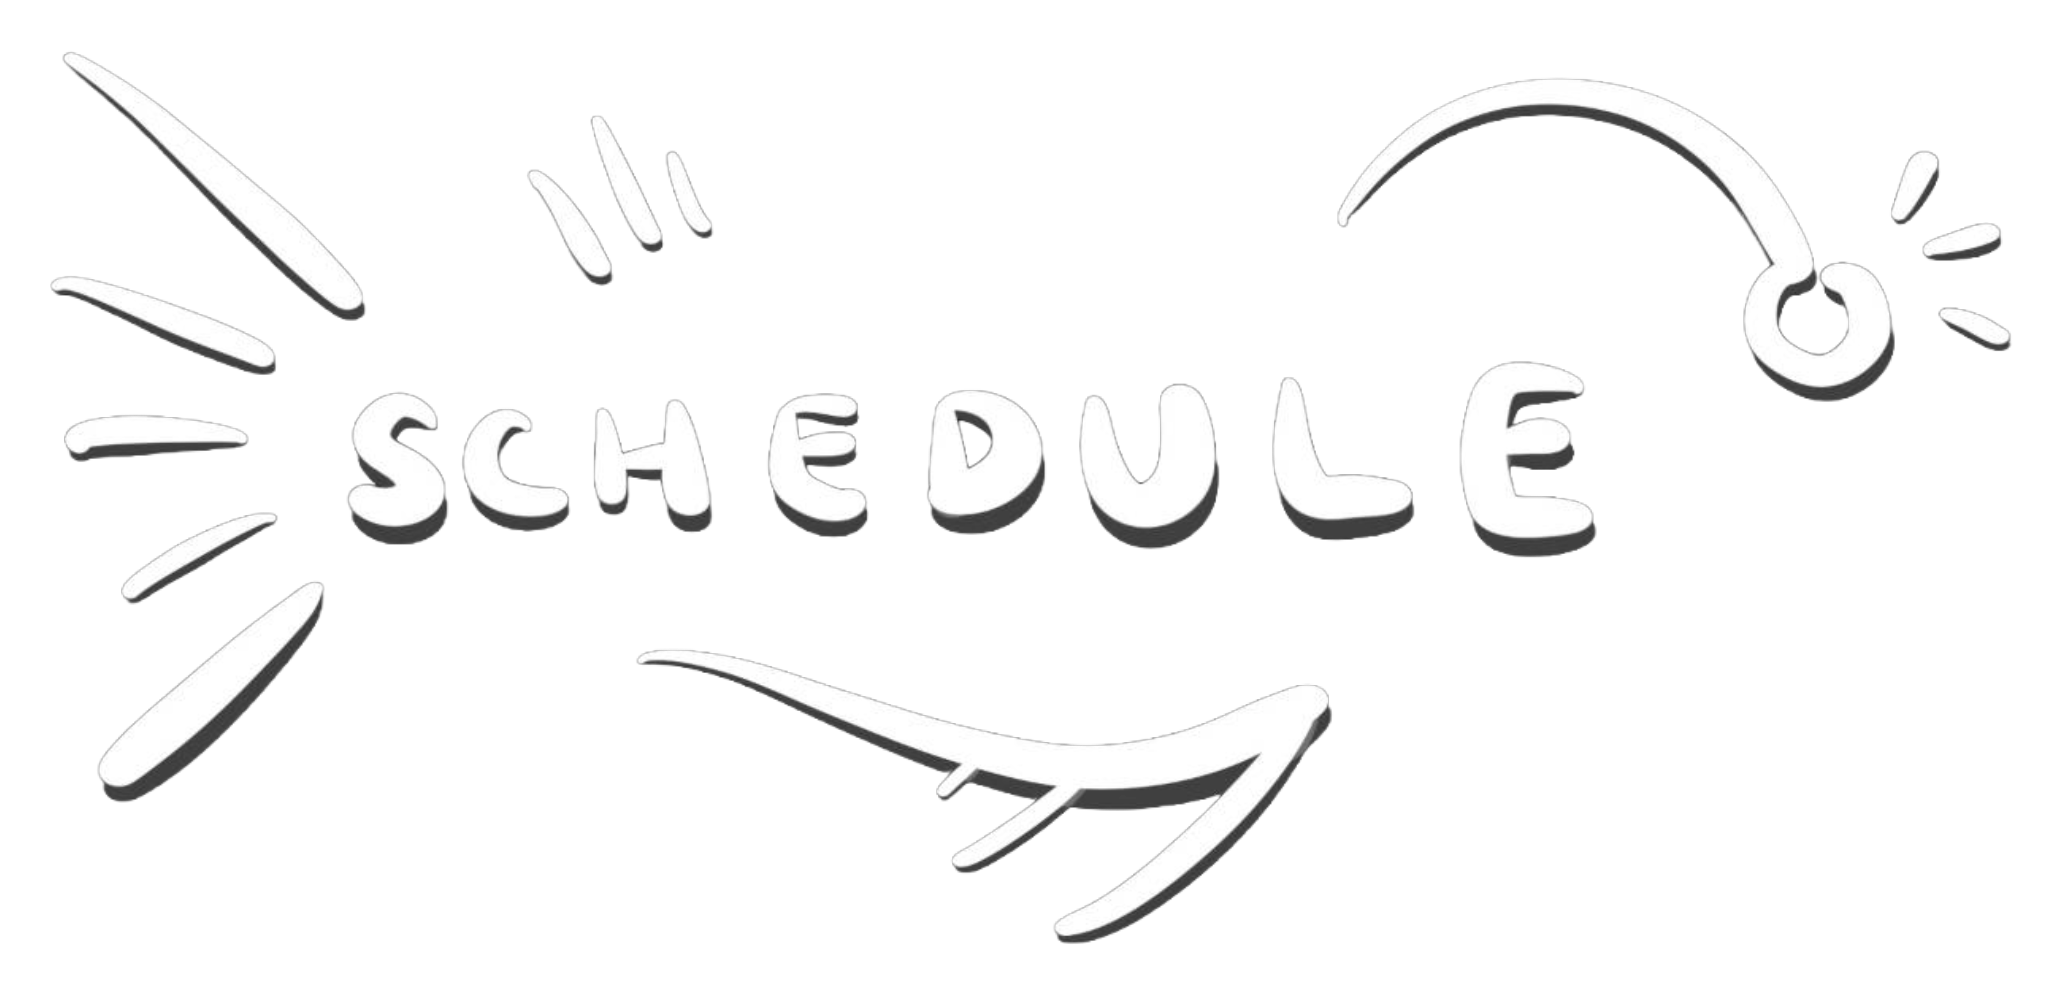
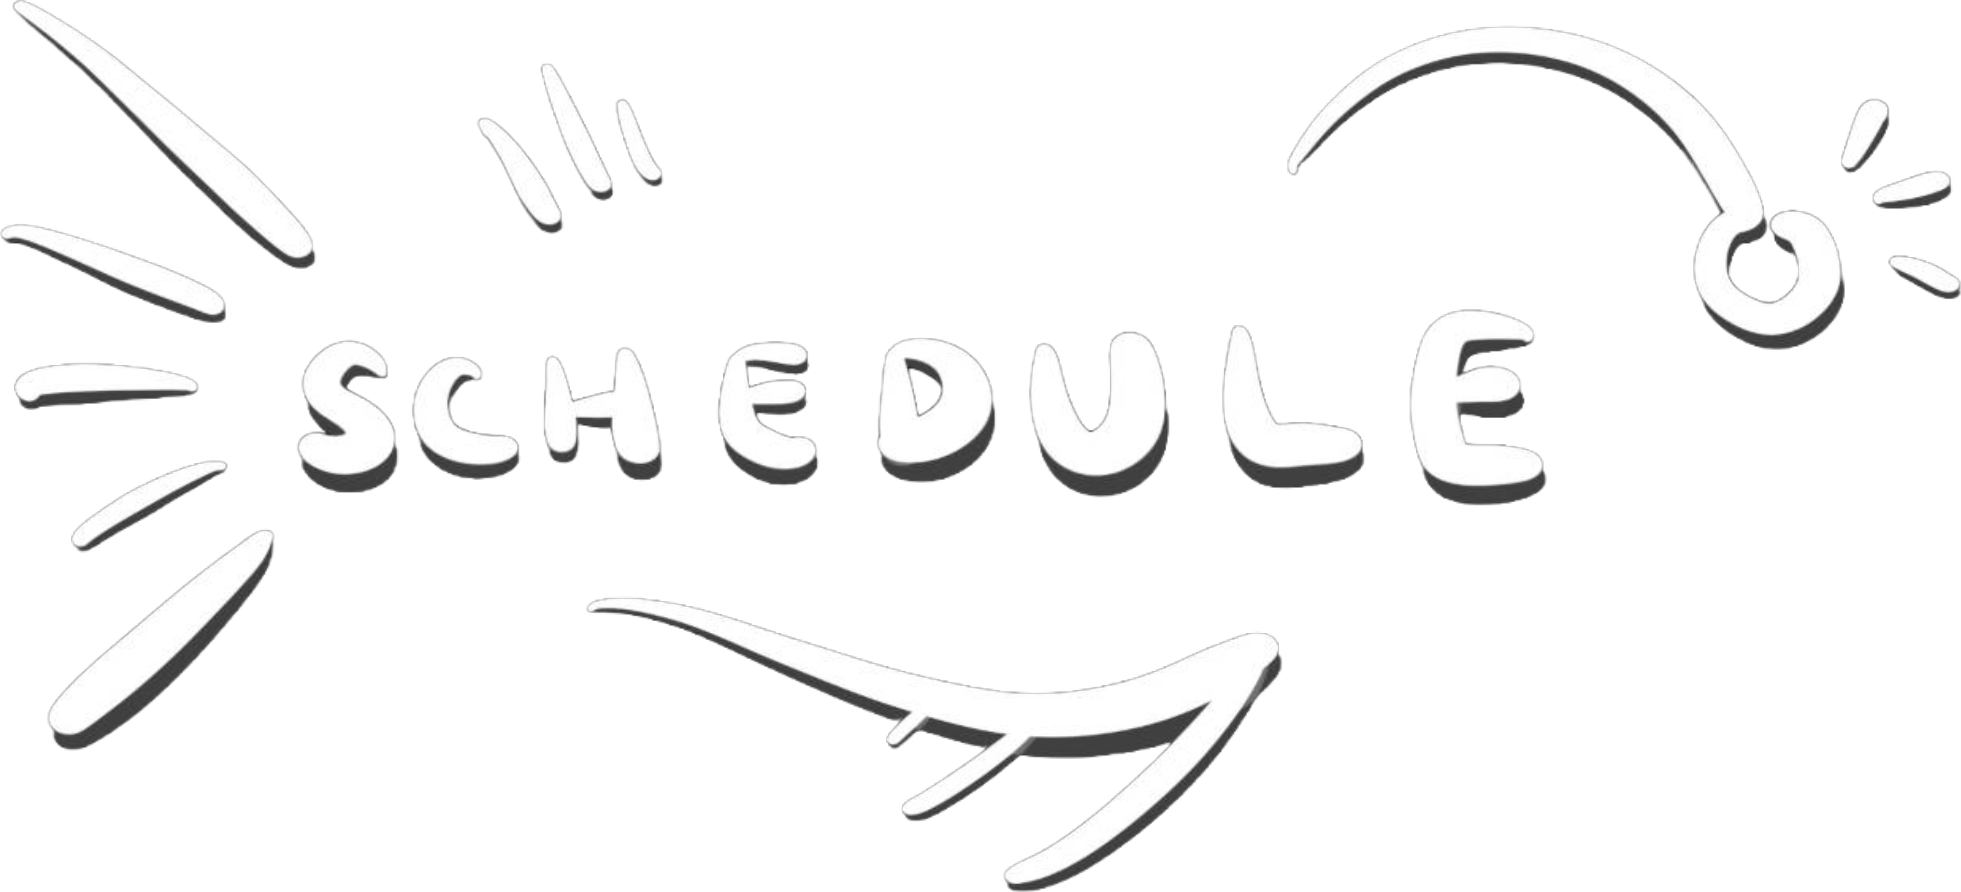
Shrink Schedule title and center grid in viewport
Re-trims title PNG to 1961x892 (residual whitespace removed) and shrinks
displayed width to 220px / 22vw so it visually matches other section
headers. Schedule grid is now break-centered via left:50% + translateX so
it sits centered in the viewport instead of overflowing right past the
750px .section-inner boundary into the hero buttons.

diff --git a/site/src/components/sections/sections.css b/site/src/components/sections/sections.css
@@ -906,21 +906,24 @@
 /* Schedule */
 .schedule-title-img {
   display: block;
-  width: 330px;
-  max-width: 28vw;
-  aspect-ratio: 2063 / 995;
+  width: 220px;
+  max-width: 22vw;
+  aspect-ratio: 1961 / 892;
   height: auto;
   margin: 0 auto;
   filter: brightness(0.1) drop-shadow(0 4px 10px rgba(255, 255, 255, 0.45));
 }
 
 .schedule-scroll {
-  margin-top: 8vh;
+  margin-top: 6vh;
   max-height: 60vh;
-  width: min(95vw, 1100px);
+  width: min(92vw, 1100px);
+  position: relative;
+  left: 50%;
+  transform: translateX(-50%);
   overflow-y: auto;
   overscroll-behavior: contain;
-  padding-right: 0.6rem;
+  padding: 0 0.6rem;
   pointer-events: auto;
 }
 